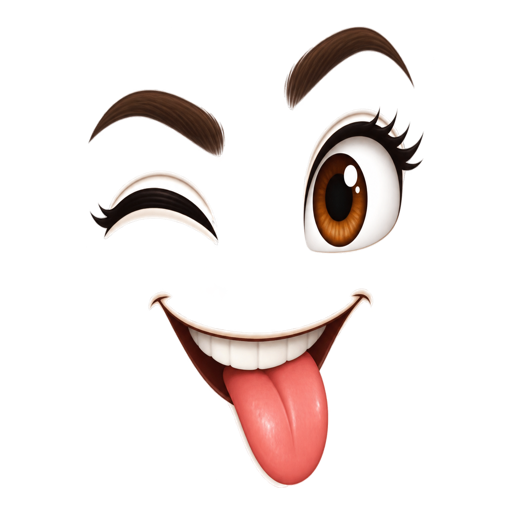
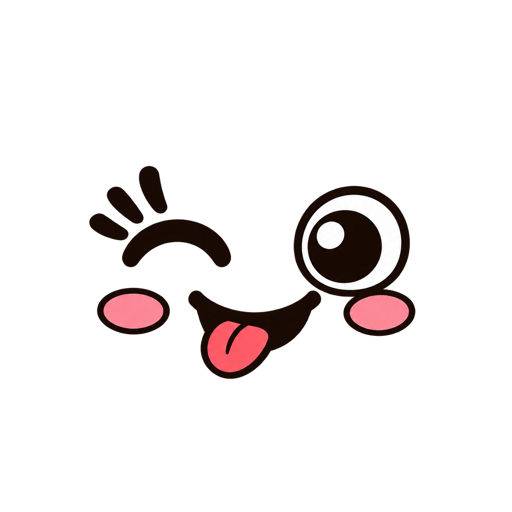
Replace three Wobblers faces with bold flat cartoon art
Deliver round 3 Cheeky, Lashes and Sleepy replacements with thick dark outlines, solid fills and centered 65-percent framing. Preserve prompt history and mark requests delivered.

Validation passed: all 55 image records decoded at requested dimensions, three replacement alpha channels and 60–70 percent feature widths verified, exact 49-image runtime manifest, browser loadImage/paintFace checks with no warnings or errors, and git diff --check.

diff --git a/wobblers/image-requests.md b/wobblers/image-requests.md
@@ -1,13 +1,14 @@
 # Wobblers image requests
 
-**Status: round 3 open — 3 replacement faces.** Round 2 delivered — 4 faces; round 1 delivered — 51 images (45 used in game + 6 reference sheets), 2026-10-24.
+**Status: round 3 delivered — 3 replacement faces, 2026-10-24.** Round 2 delivered — 4 faces; round 1 delivered — 51 images (45 used in game + 6 reference sheets), 2026-10-24.
 
-## OPEN round 3: replace three faces (3 images) — `assets/faces/`
+## Delivered round 3: replace three faces (3 images) — `assets/faces/`
 
-Checked in game: these three are drawn in a semi-realistic anime style with
-thin lashes, shaded irises and skin-tone shading, which clashes with the bold
-cartoon look of the other faces and blurs at game distance. Please redo them
-(same file names, overwrite):
+Replaced the three semi-realistic faces with bold, flat cartoon features,
+thick dark outlines and solid fills at the same file names. All three are
+transparent 512 × 512 images, framed within the middle ~65% of the square,
+and verified through the game's face-texture hook. Final prompts and prior
+generation records are preserved in `assets/generation.json`.
 
 | File | Size | Expression |
 | --- | --- | --- |
